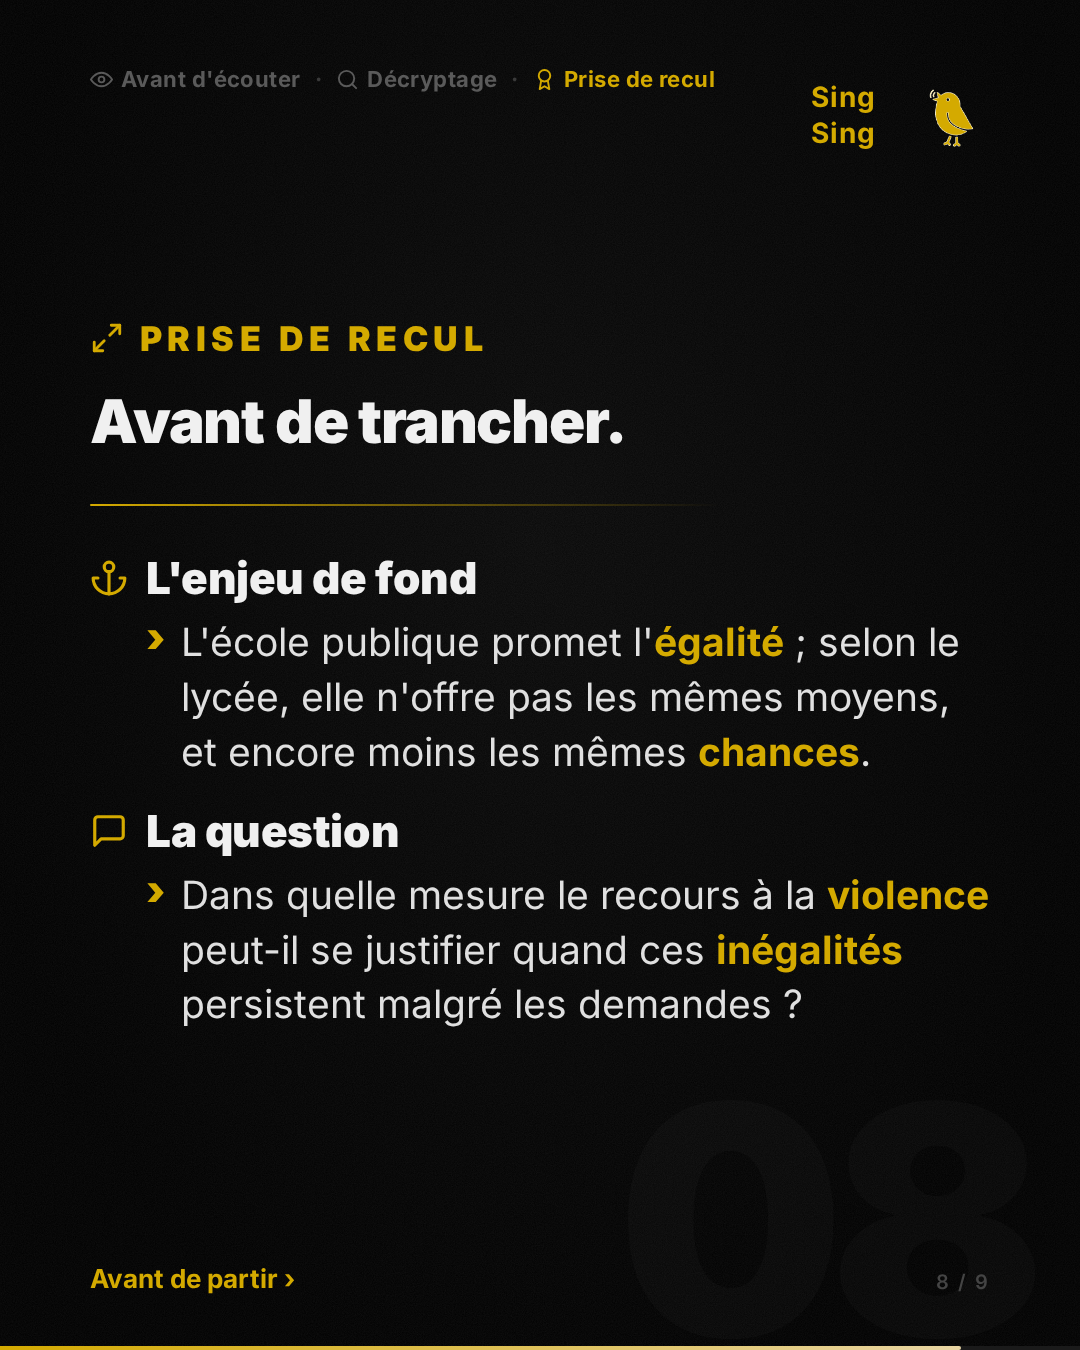
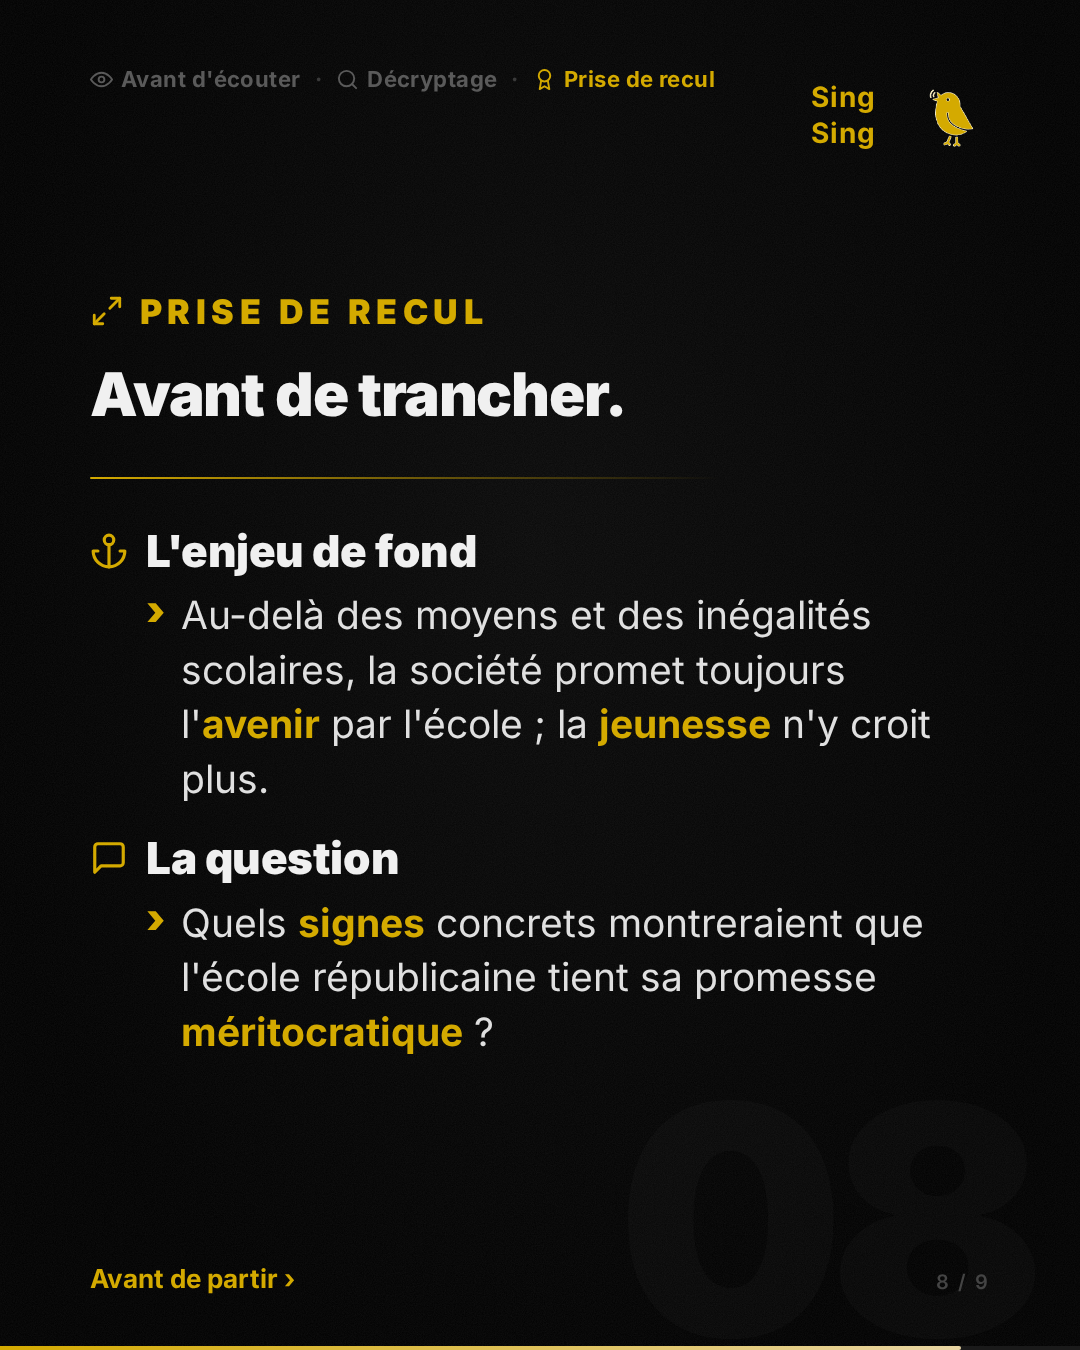
chore(samples): podcast_1 — new objection, enjeu and closing question
- Objection (slide 7): the inequalities are the ground of the anger; the
  spark dates from this week.
- Enjeu (slide 8): the society still promises the future through school;
  the young no longer believe it.
- Question (slide 8): « Quels signes concrets montreraient que l'école
  républicaine tient sa promesse méritocratique ? »

Changed region(s): [[0.0611, 0.3733, 0.9167, 0.7778], [0.0917, 0.2178, 0.5806, 0.3422]]

diff --git a/samples/podcasts/podcast_1/instagram_carousel_optimized/html/08_prise_de_recul.html b/samples/podcasts/podcast_1/instagram_carousel_optimized/html/08_prise_de_recul.html
@@ -442,13 +442,13 @@ body {
     <div class="q-item">
       <div class="q-head"><span class="mk"><svg viewBox="0 0 24 24"><circle cx="12" cy="5" r="3"/><line x1="12" y1="22" x2="12" y2="8"/><path d="M5 12H2a10 10 0 0 0 20 0h-3"/></svg></span><span class="q-label">L'enjeu de fond</span></div>
       <div class="r-list">
-        <div class="r-item"><span class="rk">&#8250;</span><span>L&#39;école publique promet l&#39;<strong>égalité</strong> ; selon le lycée, elle n&#39;offre pas les mêmes moyens, et encore moins les mêmes <strong>chances</strong>.</span></div>
+        <div class="r-item"><span class="rk">&#8250;</span><span>Au-delà des moyens et des inégalités scolaires, la société promet toujours l&#39;<strong>avenir</strong> par l&#39;école ; la <strong>jeunesse</strong> n&#39;y croit plus.</span></div>
       </div>
     </div>
     <div class="q-item">
       <div class="q-head"><span class="mk"><svg viewBox="0 0 24 24"><path d="M21 15a2 2 0 0 1-2 2H7l-4 4V5a2 2 0 0 1 2-2h14a2 2 0 0 1 2 2z"/></svg></span><span class="q-label">La question</span></div>
       <div class="r-list">
-        <div class="r-item"><span class="rk">&#8250;</span><span>Dans quelle mesure le recours à la <strong>violence</strong> peut-il se justifier quand ces <strong>inégalités</strong> persistent malgré les demandes ?</span></div>
+        <div class="r-item"><span class="rk">&#8250;</span><span>Quels <strong>signes</strong> concrets montreraient que l&#39;école républicaine tient sa promesse <strong>méritocratique</strong> ?</span></div>
       </div>
     </div>
   </div>

diff --git a/samples/podcasts/podcast_1/instagram_carousel_optimized/html/07_socle.html b/samples/podcasts/podcast_1/instagram_carousel_optimized/html/07_socle.html
@@ -446,7 +446,7 @@ body {
       <div class="r-list"><div class="r-item"><span class="rk">01</span><span>qu&#39;un <strong>manque ancien</strong> explique l&#39;explosion</span></div><div class="r-item"><span class="rk">02</span><span>que les bloqueurs viennent des <strong>quartiers</strong></span></div><div class="r-item"><span class="rk">03</span><span>que les 180 lycées bloqués partagent les <strong>mêmes</strong> revendications</span></div></div>
     </div><div class="q-item">
       <div class="q-head"><span class="mk"><svg viewBox="0 0 24 24"><path d="M12 22s8-4 8-10V5l-8-3-8 3v7c0 6 8 10 8 10z"/></svg></span><span class="q-label">L&#39;objection la plus solide</span></div>
-      <div class="r-list"><div class="r-item"><span class="rk">&#8250;</span><span>La colère porte sur l&#39;<strong>avenir</strong> plus que sur l&#39;école : une angoisse diffuse face à une politique qui ne promet plus rien.</span></div></div>
+      <div class="r-list"><div class="r-item"><span class="rk">&#8250;</span><span>Les inégalités sont le terreau de la colère ; l&#39;<strong>étincelle</strong>, elle, date de cette semaine.</span></div></div>
     </div>
   </div>
   <div class="next-hook-bar"><span style="color: #d4aa00; font-weight: 700;">Avant de trancher &#8250;</span></div>
